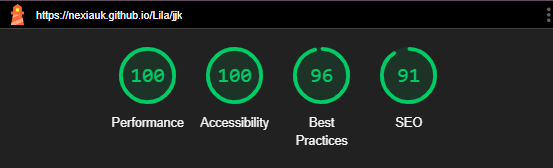
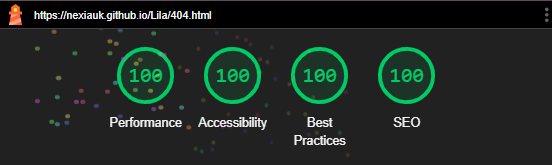
removed active class from nav-links on 404 error page

diff --git a/404.html b/404.html
@@ -36,7 +36,7 @@
                             <a class="nav-link" href="index.html">Play</a>
                         </li>
                         <li class="nav-item">
-                            <a class="nav-link active" aria-current="page" href="about.html">About</a>
+                            <a class="nav-link" href="about.html">About</a>
                         </li>
                     </ul>
                 </div>

diff --git a/docs/README.md b/docs/README.md
@@ -496,13 +496,11 @@ The performance on mobile sits at 97 due to the preloading of all the game’s i
 
 * **404.html mobile results**
 
-![An image showing the chrome lighthouse results for a mobile test, with 98 for performance, 100 for Accessibility, 96 for Best Practices and 91 for SEO](/assets/images/readme-images/404-mobile-lighthouse.png)
+![An image showing the chrome lighthouse results for a mobile test, with 98 for performance, 100 for Accessibility, Best Practices and SEO](/assets/images/readme-images/404-mobile-lighthouse.png)
 
 * **404.html desktop results**
 
-![An image showing the chrome lighthouse results for a desktop test, with 100 for performance, 100 for Accessibility, 96 for Best Practices and 91 for SEO](/assets/images/readme-images/404-desktop-lighthouse.png)
-
-(Note: Best Practice and SEO results are adversely affected by dint of this being a 404 error page. This is a known issue with Chrome Lighthouse, however I'm pleased with my performance and accessibility scores, which are accurate)
+![An image showing the chrome lighthouse results for a desktop test, with 100 for performance, 100 for Accessibility, Best Practices and SEO](/assets/images/readme-images/404-desktop-lighthouse.png)
 
 [Back to Table of Contents](#table-of-contents)
 
